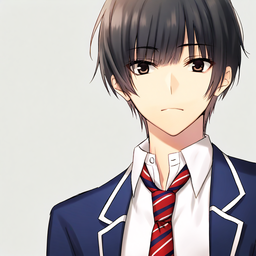
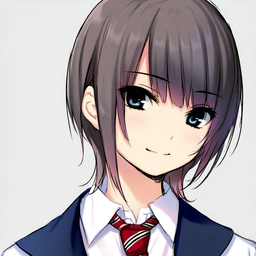
残り4名のキーパーソンのポートレート生成とプレイヤー選択時のデータ管理を修正
- 橋本翼・加藤美月・鈴木翔太・斎藤学の外見設定・画像プロンプト・ポートレート画像を追加
- プレイヤー選択時にstudentsから除外していた問題を修正（組織の代表/投票計算が壊れていた）
- デバッグ画面のプレイヤーカードにポートレート画像を表示するように修正
- 説得敗北/タイムアウト時にプレイヤーのsupportをstudents配列に同期

diff --git a/src/game.ts b/src/game.ts
@@ -121,13 +121,12 @@ export class Game {
         // 選んだ生徒の思想軸の最大値が支持候補になる
         const candidateId = (['conservative', 'progressive', 'sports'] as CandidateId[])
           .reduce((a, b) => selected.support[a] >= selected.support[b] ? a : b);
-        // 選んだ生徒をプレイヤーに、残りを説得対象に
-        const otherStudents = allStudents.filter(s => s.id !== selected.id);
+        // 選んだ生徒をプレイヤーに（studentsには全員残す＝組織の代表計算に必要）
         this.state = {
           ...createInitialState(),
           screen: 'daily',
           candidate: candidateId,
-          students: otherStudents,
+          students: allStudents,
           playerCharacter: {
             id: selected.id,
             name: selected.name,
@@ -200,6 +199,15 @@ export class Game {
       stamina: this.state.stamina - 5,
     };
     this.dailyScreen?.update(this.state);
+  }
+
+  // プレイヤーのsupportをstudents配列にも同期する（組織票計算に必要）
+  private syncPlayerSupport(students: Student[]): Student[] {
+    const playerId = this.state.playerCharacter?.id;
+    if (!playerId) return students;
+    return students.map(s =>
+      s.id === playerId ? { ...s, support: { ...this.state.playerSupport } } : s
+    );
   }
 
   private calcAffinityGain(student: Student): number {
@@ -428,6 +436,7 @@ export class Game {
           battle: null,
           lastBattleResult: { student, win: false, shiftAmount },
         };
+        this.state = { ...this.state, students: this.syncPlayerSupport(this.state.students) };
         this.showGameOver();
       } else {
         this.state = {
@@ -437,6 +446,7 @@ export class Game {
           battle: null,
           lastBattleResult: { student, win: false, shiftAmount },
         };
+        this.state = { ...this.state, students: this.syncPlayerSupport(this.state.students) };
         this.showDaily();
       }
     } else if (result === 'timeout') {
@@ -462,6 +472,7 @@ export class Game {
           battle: null,
           lastBattleResult: { student, win: false, shiftAmount },
         };
+        this.state = { ...this.state, students: this.syncPlayerSupport(this.state.students) };
         this.showGameOver();
       } else {
         this.state = {
@@ -472,6 +483,7 @@ export class Game {
           battle: null,
           lastBattleResult: { student, win: battle.barPosition > 0, shiftAmount },
         };
+        this.state = { ...this.state, students: this.syncPlayerSupport(this.state.students) };
         this.showDaily();
       }
     }

diff --git a/src/screens/debugScreen.ts b/src/screens/debugScreen.ts
@@ -92,8 +92,9 @@ export class DebugScreen {
     const pc = this.state.playerCharacter;
     const playerCardHtml = pc ? this.renderPlayerCard(pc) : '';
 
-    // 全生徒（プレイヤー除外済みのstate.students = 説得対象 + 候補者）
-    const allStudents = this.state.students;
+    // 全生徒（プレイヤーは別カードで表示するので除外）
+    const playerId = this.state.playerCharacter?.id;
+    const allStudents = this.state.students.filter(s => s.id !== playerId);
     const studentsHtml = allStudents.map(s => this.renderStudentRow(s)).join('');
     const orgHtml = this.renderOrganizations();
 
@@ -155,12 +156,19 @@ export class DebugScreen {
         margin-bottom:4px;
       ">
         <div style="display:flex; align-items:center; gap:10px; margin-bottom:8px;">
-          <div style="
-            width:48px; height:48px; border-radius:50%;
-            background:#4A90D9; color:#fff;
-            display:flex; align-items:center; justify-content:center;
-            font-size:0.8em; font-weight:bold; flex-shrink:0;
-          ">YOU</div>
+          ${pc.portrait
+            ? `<img src="${pc.portrait}" alt="${pc.name}" style="
+                width:48px; height:48px; border-radius:50%;
+                object-fit:cover; object-position:top;
+                border:2px solid #4A90D9; flex-shrink:0;
+              "/>`
+            : `<div style="
+                width:48px; height:48px; border-radius:50%;
+                background:#4A90D9; color:#fff;
+                display:flex; align-items:center; justify-content:center;
+                font-size:0.8em; font-weight:bold; flex-shrink:0;
+              ">YOU</div>`
+          }
           <div style="flex:1; min-width:0;">
             <div style="display:flex; align-items:center; gap:8px;">
               <span style="font-weight:bold; font-size:0.95em; color:#8cf;">${pc.name}</span>

diff --git a/src/data.ts b/src/data.ts
@@ -11,6 +11,10 @@ import nakamuraSakuraPortrait from '../portraits/nakamura_sakura.png';
 import takahashiYutoPortrait from '../portraits/takahashi_yuto.png';
 import matsumotoKentaPortrait from '../portraits/matsumoto_kenta.png';
 import miyazakiAkanePortrait from '../portraits/miyazaki_akane.png';
+import hashimotoTsubasaPortrait from '../portraits/hashimoto_tsubasa.png';
+import katoMitsukiPortrait from '../portraits/kato_mitsuki.png';
+import suzukiShotaPortrait from '../portraits/suzuki_shota.png';
+import saitoManabuPortrait from '../portraits/saito_manabu.png';
 import takayamaSeiichiPortrait from '../portraits/takayama_seiichi.png';
 import yuukiAkariPortrait from '../portraits/yuuki_akari.png';
 import shidoTsuyoshiPortrait from '../portraits/shido_tsuyoshi.png';
@@ -319,7 +323,7 @@ export const STUDENTS: Student[] = [
     stats: { speech: 45, athletic: 45, intel: 40, maxHp: 100 },
     affinity: 0,
     talkCount: 0,
-    portrait: null,
+    portrait: hashimotoTsubasaPortrait,
     candidateId: null,
     playable: true,
   },
@@ -340,7 +344,7 @@ export const STUDENTS: Student[] = [
     stats: { speech: 50, athletic: 70, intel: 30, maxHp: 110 },
     affinity: 0,
     talkCount: 0,
-    portrait: null,
+    portrait: katoMitsukiPortrait,
     candidateId: null,
     playable: true,
   },
@@ -361,7 +365,7 @@ export const STUDENTS: Student[] = [
     stats: { speech: 70, athletic: 20, intel: 65, maxHp: 85 },
     affinity: 0,
     talkCount: 0,
-    portrait: null,
+    portrait: suzukiShotaPortrait,
     candidateId: null,
     playable: true,
   },
@@ -382,7 +386,7 @@ export const STUDENTS: Student[] = [
     stats: { speech: 55, athletic: 15, intel: 90, maxHp: 75 },
     affinity: 0,
     talkCount: 0,
-    portrait: null,
+    portrait: saitoManabuPortrait,
     candidateId: null,
     playable: true,
   },

diff --git a/src/screens/dailyScreen.ts b/src/screens/dailyScreen.ts
@@ -32,7 +32,9 @@ export class DailyScreen {
   }
 
   private getStudentsAtLocation(): Student[] {
+    const playerId = this.state.playerCharacter?.id;
     return this.state.students.filter(s =>
+      s.id !== playerId &&
       getStudentLocation(s.id, this.state.timeSlot, this.state.day) === this.state.currentLocation
     );
   }

diff --git a/docs/characters.md b/docs/characters.md
@@ -175,10 +175,82 @@ simple grey background, masterpiece, best quality
 
 ---
 
-## 未作成のキーパーソン（残り4名）
+### 橋本 翼（はしもと つばさ）
+- **所属**: 1-D キーパーソン
+- **外見**: くしゃっとした明るい茶髪（短め）、大きな丸い茶色の目、やや小柄、日焼け気味
+- **内面**: ゲームと動画が大好きな自由人。深く考えるのは苦手だが、柔軟な発想で周りを驚かせることがある
+- **性格**: 柔軟
+- **趣味**: ゲーム、動画
+- **支持**: 革新45、学園祭方針: 外部寄り
+- **口癖**: 「いいね、それもアリだね！」
+- **画像**: `portraits/hashimoto_tsubasa.png`
+- **seed**: 155
+- **プロンプト**:
+```
+1boy, (kizoku:1.0), (anmi:0.5), (kishida_mel:0.5),
+big round brown eyes, slightly tanned skin,
+Japanese high school student, short messy light brown hair, small build,
+dark navy blue school blazer, white dress shirt, red striped necktie,
+upper body portrait, face close-up, looking at viewer, carefree cheerful grin, blush,
+simple grey background, masterpiece, best quality
+```
 
-game-spec.mdより:
-- 橋本 翼（1-D）: 柔軟、ゲーム好き、革新45
-- 加藤 美月（2-D）: 柔軟、恋バナ好き、体育60
-- 鈴木 翔太（3-A）: 慎重、恋バナ好き、保守50
-- 斎藤 学（3-C）: 頑固、恋バナ好き、保守70
+### 加藤 美月（かとう みつき）
+- **所属**: 2-D キーパーソン
+- **外見**: 高い位置で結んだブラウンのポニーテール、活発なオレンジブラウンの目、健康的な肌、すらっとした体格
+- **内面**: 明るくて面倒見のいいスポーツ少女。恋バナが大好きで、テニス部ではムードメーカー的存在
+- **性格**: 柔軟
+- **趣味**: 恋バナ、スポーツ
+- **支持**: 体育60、学園祭方針: 内部寄り
+- **口癖**: 「えー、それめっちゃいいじゃん！」
+- **画像**: `portraits/kato_mitsuki.png`
+- **seed**: 277
+- **プロンプト**:
+```
+1girl, (miyase_mahiro:1.0), (kizoku:1.0), (anmi:1.0), (kishida_mel:0.5),
+bright orange-brown eyes, healthy tanned skin,
+Japanese high school student, brown hair in high ponytail, athletic build, bright energetic smile,
+(dark navy blue school blazer:1.3), white dress shirt, red ribbon bow at collar,
+upper body portrait, portrait from chest up, head and shoulders visible, looking at viewer, cheerful lively expression,
+simple grey background, masterpiece, best quality
+```
+
+### 鈴木 翔太（すずき しょうた）
+- **所属**: 3-A キーパーソン
+- **外見**: きれいに流したダークブラウンの髪、穏やかなグレーブルーの目、色白、細身で上品な雰囲気
+- **内面**: 物腰柔らかで社交的だが、慎重に人を見極める一面もある。音楽を愛し、吹奏楽部でクラリネットを担当
+- **性格**: 慎重
+- **趣味**: 恋バナ、音楽
+- **支持**: 保守50、学園祭方針: 内部寄り
+- **口癖**: 「慎重にいきたいかな」
+- **画像**: `portraits/suzuki_shota.png`
+- **seed**: 150
+- **プロンプト**:
+```
+1boy, (kizoku:1.0), (anmi:0.5), (kishida_mel:0.5),
+calm grey-blue eyes, pale skin,
+Japanese high school student, neat dark brown hair swept to the side, slender refined build,
+dark navy blue school blazer, white dress shirt, red striped necktie,
+upper body portrait, face close-up, looking at viewer, composed gentle smile,
+simple grey background, masterpiece, best quality
+```
+
+### 斎藤 学（さいとう まなぶ）
+- **所属**: 3-C キーパーソン
+- **外見**: きっちり短い黒髪、鋭い黒目、痩せ型で背が高い、無愛想な表情
+- **内面**: 学年トップクラスの秀才。頑固で自分の信念を曲げない。勉強と読書が生きがいで、流行には無関心
+- **性格**: 頑固
+- **趣味**: 勉強、読書
+- **支持**: 保守70、学園祭方針: 内部65
+- **口癖**: 「それは違うと思う」
+- **画像**: `portraits/saito_manabu.png`
+- **seed**: 160
+- **プロンプト**:
+```
+1boy, (kizoku:1.0), (anmi:0.5), (kishida_mel:0.5),
+sharp dark black eyes,
+Japanese high school student, short neat black hair, tall and thin build, stern intellectual expression,
+dark navy blue school blazer, white dress shirt, red striped necktie,
+upper body portrait, face close-up, looking at viewer, cold serious expression,
+simple grey background, masterpiece, best quality
+```
